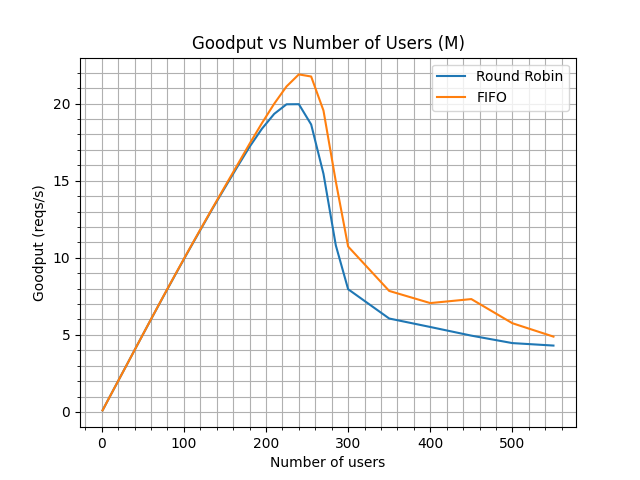
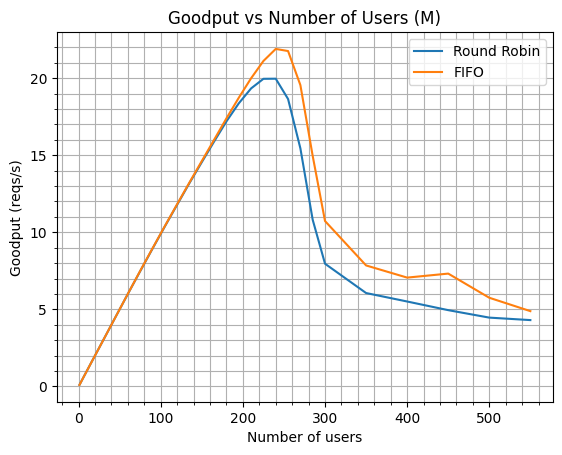
Some more changes.

Changed region(s): [[0.0, 0.0308, 0.9982, 0.9846]]

diff --git a/graph_gen.py b/graph_gen.py
@@ -75,7 +75,7 @@ plt.title('Goodput vs Number of Users (M)')
 plt.minorticks_on()
 plt.grid(True, 'both')
 plt.legend()
-plt.savefig('graphs/goodput.png')
+plt.savefig('graphs/goodput.png', bbox_inches='tight')
 # plt.show()
 
 # %%
@@ -88,7 +88,7 @@ plt.title('Badput vs Number of Users (M)')
 plt.minorticks_on()
 plt.grid(True, 'both')
 plt.legend()
-plt.savefig('graphs/badput.png')
+plt.savefig('graphs/badput.png', bbox_inches='tight')
 # plt.show()
 
 # %%
@@ -101,7 +101,7 @@ plt.title('Throughput (Λ) vs Number of Users (M)')
 plt.minorticks_on()
 plt.grid(True, 'both')
 plt.legend()
-plt.savefig('graphs/throughput.png')
+plt.savefig('graphs/throughput.png', bbox_inches='tight')
 # plt.show()
 
 # %%
@@ -115,7 +115,7 @@ plt.minorticks_on()
 plt.grid(True, 'both')
 plt.legend()
 # plt.show()
-plt.savefig('graphs/req_drop_rate.png')
+plt.savefig('graphs/req_drop_rate.png', bbox_inches='tight')
 
 # %%
 plt.clf()
@@ -127,7 +127,7 @@ plt.title('CPU Utilisation (ρ) vs Number of Users (M)')
 plt.minorticks_on()
 plt.grid(True, 'both')
 plt.legend()
-plt.savefig('graphs/utilisation.png')
+plt.savefig('graphs/utilisation.png', bbox_inches='tight')
 # plt.show()
 
 # %%
@@ -140,7 +140,7 @@ plt.title('Average Queue Length vs Number of Users (M)')
 plt.minorticks_on()
 plt.grid(True, 'both')
 plt.legend()
-plt.savefig('graphs/avg_queue_len.png')
+plt.savefig('graphs/avg_queue_len.png', bbox_inches='tight')
 # plt.show()
 
 # %%
@@ -153,7 +153,7 @@ plt.title('Average Waiting Time in Queue vs Number of Users (M)')
 plt.minorticks_on()
 plt.grid(True, 'both')
 plt.legend()
-plt.savefig('graphs/avg_queue_wait_time.png')
+plt.savefig('graphs/avg_queue_wait_time.png', bbox_inches='tight')
 # plt.show()
 
 # %%
@@ -180,7 +180,7 @@ plt.ylabel('Response Time (s)')
 plt.title('Response Time Confidence Interval (90%) vs Number of Users (M) [RoundRobin]')
 plt.minorticks_on()
 plt.grid(True, 'both')
-plt.savefig('graphs/resp_time_ci_rr.png')
+plt.savefig('graphs/resp_time_ci_rr.png', bbox_inches='tight')
 # plt.show()
 
 # %%
@@ -193,7 +193,7 @@ plt.ylabel('Response Time (s)')
 plt.title('Response Time Confidence Interval (90%) vs Number of Users (M) [RoundRobin]')
 plt.minorticks_on()
 plt.grid(True, 'both')
-plt.savefig('graphs/resp_time_ci_rr_zoomed.png')
+plt.savefig('graphs/resp_time_ci_rr_zoomed.png', bbox_inches='tight')
 # plt.show()
 
 # %%
@@ -206,7 +206,7 @@ plt.ylabel('Response Time (s)')
 plt.title('Response Time Confidence Interval (90%) vs Number of Users (M) [FIFO]')
 plt.minorticks_on()
 plt.grid(True, 'both')
-plt.savefig('graphs/resp_time_ci_fifo.png')
+plt.savefig('graphs/resp_time_ci_fifo.png', bbox_inches='tight')
 # plt.show()
 
 # %%
@@ -219,7 +219,20 @@ plt.ylabel('Response Time (s)')
 plt.title('Response Time Confidence Interval (90%) vs Number of Users (M) [FIFO]')
 plt.minorticks_on()
 plt.grid(True, 'both')
-plt.savefig('graphs/resp_time_ci_fifo_zoomed.png')
+plt.savefig('graphs/resp_time_ci_fifo_zoomed.png', bbox_inches='tight')
+# plt.show()
+
+# %%
+plt.clf()
+plt.plot(numUsersRR, list(map(avg, responseTimesRR)), label='Round Robin')
+plt.plot(numUsersRR, list(map(avg, responseTimesFIFO)), label='FIFO')
+plt.xlabel('Number of users')
+plt.ylabel('Response Time (s)')
+plt.title('Response Time (s) vs Number of Users (M)')
+plt.minorticks_on()
+plt.grid(True, 'both')
+plt.legend()
+plt.savefig('graphs/resp_time.png', bbox_inches='tight')
 # plt.show()
 
 # %%

diff --git a/README.md b/README.md
@@ -1,0 +1,29 @@
+# Closed Loop Web Server Simulator
+It is a simulator which implements a closed loop system of Users and Web Server. The simulator is implemented in python and follows a modular design.
+
+## Project Structure
+`classes.py` file contains class definitions for all internal modules of the system.
+
+`simulator.py` file contains simulator class definition, which uses modules from `classes.py` to instantiate a simulator.
+
+`lcgrand.py` file defines the pseudo random number generator used by the simulator.
+
+`data_generator.py` file runs the simulator for different configurations and generates csv files of the metrics.
+
+`graph_gen.py` file reads the csv files and generated graphs.
+
+## Generating Simulation Data
+Requirements: 
+ - `python3`
+
+`data_generator.py` defines variable for the simulation metrics. Change this metrics as per requirement and then save the file.
+
+Execute `python3 data_generator.py` to generate the data.
+
+## Generating Graphs
+Requirements: 
+ - `python3`
+ - `matplotlib (pip3 install matplotlib)`
+ - Generated csv data files.
+
+Execute `python3 graph_gen.py`. Graphs will be generated.
